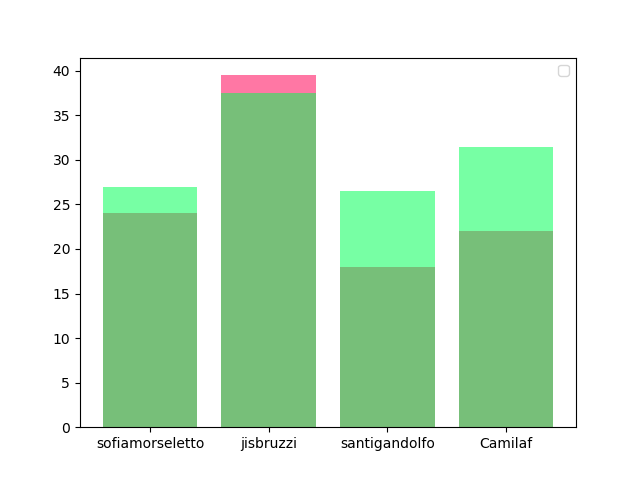
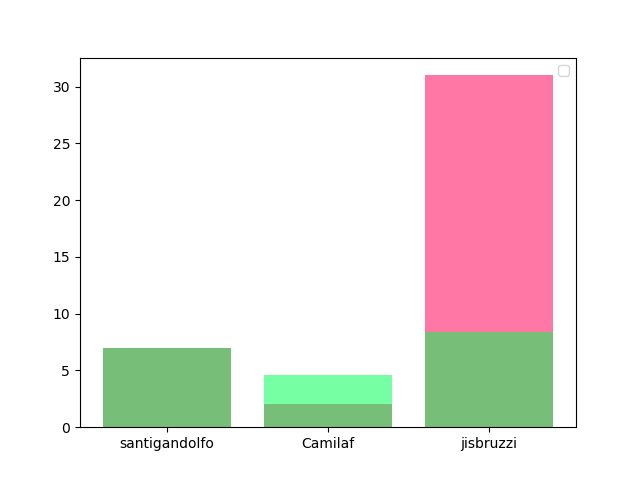
Agrego gráficos sem 1 iter 3

diff --git a/scrap-horas/visu-horas.py b/scrap-horas/visu-horas.py
@@ -11,7 +11,7 @@ for issue in full_explanations:
     explanations[issue]={}
     efforts=explanations[issue]
     for effort in full_explanations[issue]:
-        if effort["date"]<'2018-10-02T00:00:00Z':
+        if effort["date"]<'2018-10-23T00:00:00Z':
             continue
         print("===========")
         print(issue)
@@ -223,13 +223,12 @@ def mostrar_lista():
 
 #mostrar_lista()
 mostrar_burndown()
-#mostrar_puntos(False,False)
-#mostrar_puntos(False,True)
-#mostrar_puntos(True,False)
-#mostrar_puntos(True,True)
+mostrar_puntos(False,False)
+mostrar_puntos(False,True)
+mostrar_puntos(True,False)
+mostrar_puntos(True,True)
 mostrar_columnas_personas()
-#mostrar_columnas_repo()
-#mostrar_columnas_repo()
+mostrar_columnas_repo()
 
 
 
